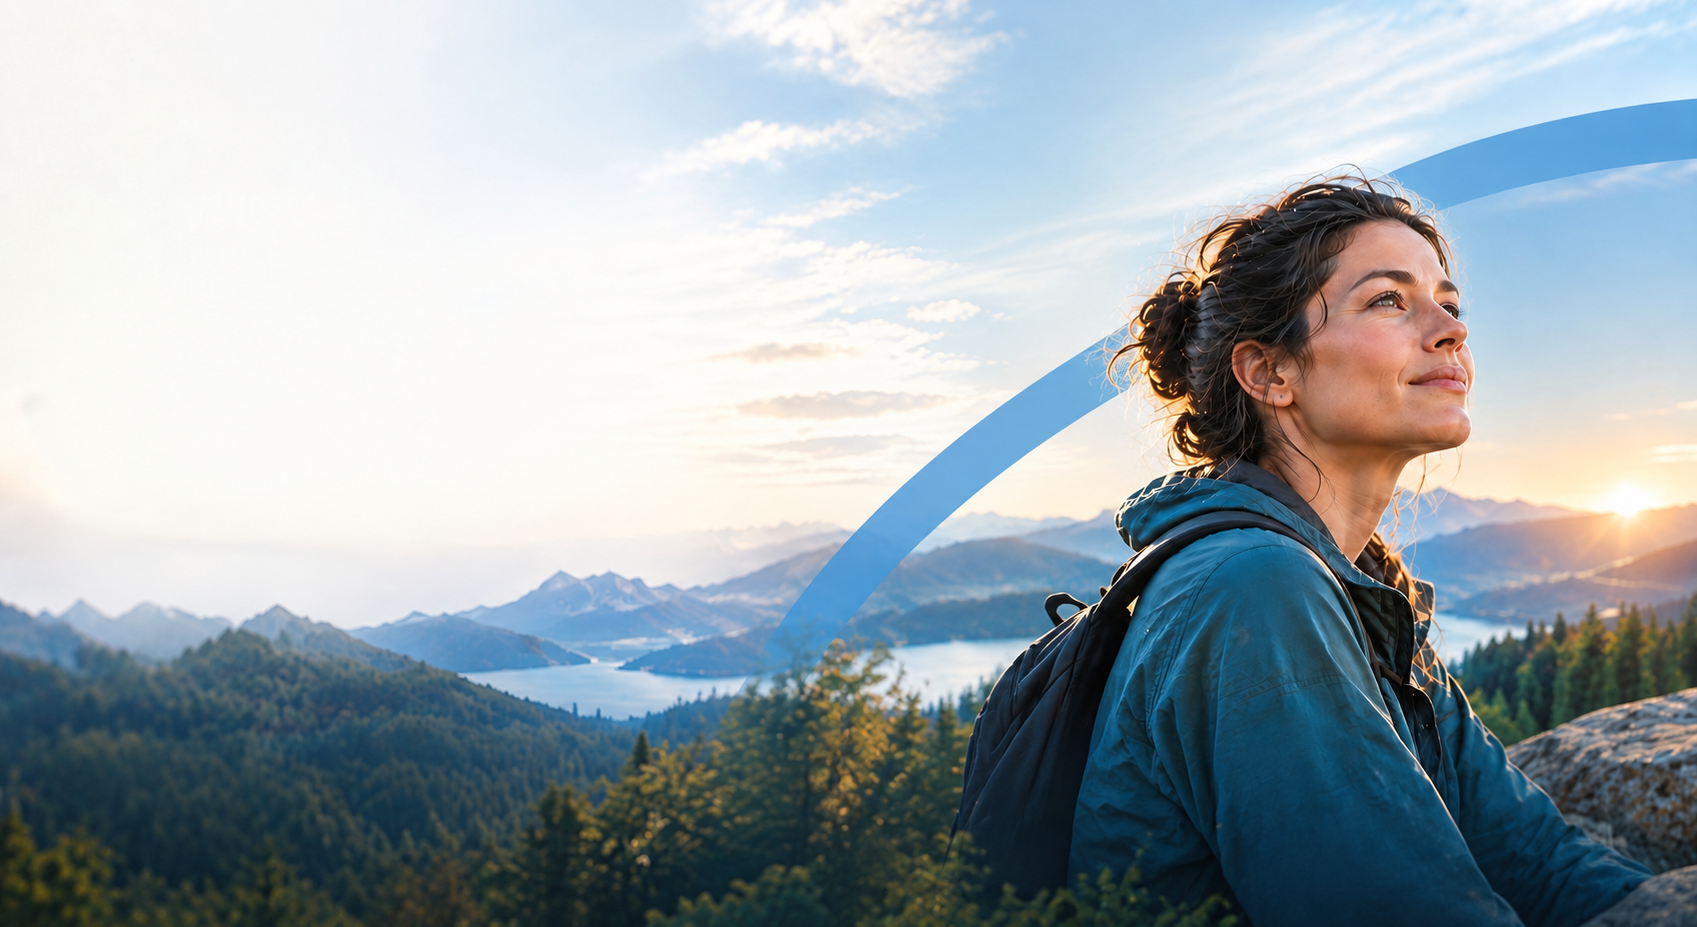
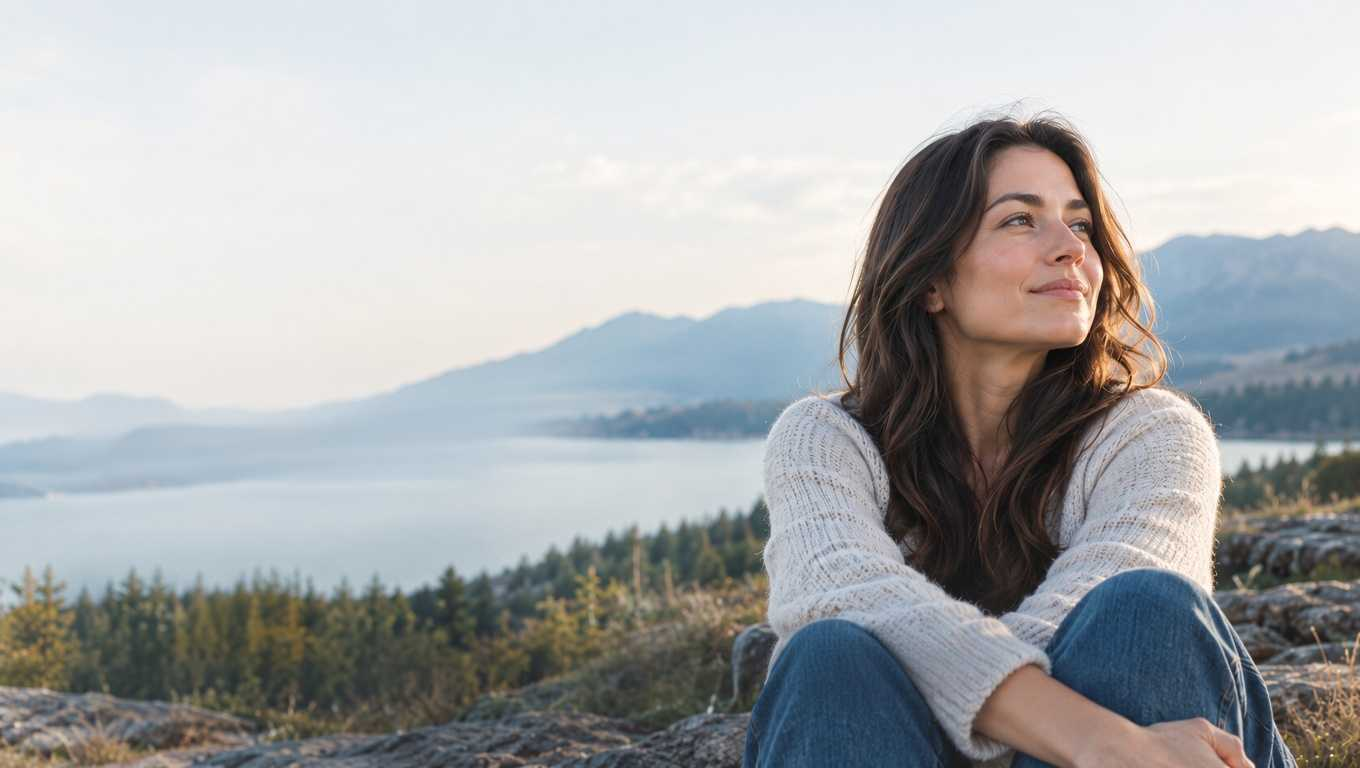
chore: update hero image

diff --git a/src/content/copy.ts b/src/content/copy.ts
@@ -29,7 +29,7 @@ export const copy = {
     headlineLine3: "Depression",
     headlineAccent: "& Anxiety",
     subheadline:
-      "Personalized TMS Therapy and SPRAVATO® across Oregon and Washington — FDA-cleared, insurance-friendly care when medications and therapy haven’t been enough.",
+      "Personalized TMS Therapy and SPRAVATO® across Oregon and Washington. FDA-cleared, insurance-friendly care when medications and therapy haven’t been enough.",
     primaryCta: ctas.bookConsult,
     secondaryCta: ctas.qualify,
     chips: [
@@ -65,7 +65,7 @@ export const copy = {
   whatIsTms: {
     eyebrow: "TMS Therapy",
     headline: "Drug-free relief for depression that hasn’t budged",
-    body: "Transcranial Magnetic Stimulation uses focused magnetic pulses to stimulate areas of the brain involved in mood. At Active Path, we offer BrainsWay and NeuroStar — FDA-cleared devices for adults who haven’t found enough relief with medication alone.",
+    body: "Transcranial Magnetic Stimulation uses focused magnetic pulses to stimulate areas of the brain involved in mood. At Active Path, we offer BrainsWay and NeuroStar, FDA-cleared devices for adults who haven’t found enough relief with medication alone.",
     points: [
       {
         title: "Non-invasive & medication-free",
@@ -77,7 +77,7 @@ export const copy = {
       },
       {
         title: "Outpatient sessions",
-        body: "Brief in-clinic visits that fit into your week — then you return to your day.",
+        body: "Brief in-clinic visits that fit into your week, then you return to your day.",
       },
     ],
     cta: ctas.bookConsult,
@@ -117,7 +117,7 @@ export const copy = {
   whyChoose: {
     eyebrow: "Why Active Path",
     headline: "Personalized care that never gives up",
-    body: "We specialize in advanced, evidence-based treatments for depression and related conditions — delivered with warmth across Oregon and Washington.",
+    body: "We specialize in advanced, evidence-based treatments for depression and related conditions, delivered with warmth across Oregon and Washington.",
     cards: [
       {
         title: "Care that never gives up",
@@ -129,15 +129,15 @@ export const copy = {
       },
       {
         title: "Insurance accepted",
-        body: "Covered by most major plans — Aetna, Cigna, Kaiser, Providence, Regence, and more.",
+        body: "Covered by most major plans, including Aetna, Cigna, Kaiser, Providence, Regence, and more.",
       },
       {
         title: "Oregon & Washington clinics",
-        body: "Six locations so care is nearby — Clackamas, Portland, Salem, Tigard, Kirkland, Vancouver.",
+        body: "Six locations so care is nearby: Clackamas, Portland, Salem, Tigard, Kirkland, and Vancouver.",
       },
       {
         title: "Personalized plans",
-        body: "Care built on real data and lived experience — not a one-size-fits-all protocol.",
+        body: "Care built on real data and lived experience, not a one-size-fits-all protocol.",
       },
       {
         title: "Licensed providers",
@@ -165,7 +165,7 @@ export const copy = {
     eyebrow: "Who Qualifies",
     headline: "Is advanced depression care right for you?",
     subheadline:
-      "TMS and SPRAVATO® may help if you’ve tried multiple treatments without enough relief — or you’re seeking a non-drug or advanced alternative.",
+      "TMS and SPRAVATO® may help if you’ve tried multiple treatments without enough relief, or you’re seeking a non-drug or advanced alternative.",
     items: [
       {
         title: "Treatment-Resistant Depression",
@@ -189,7 +189,7 @@ export const copy = {
   supportiveVideos: {
     eyebrow: "Learn more",
     headline: "TMS & SPRAVATO® videos",
-    body: "Hear how these treatments work — and real stories from people who found relief at Active Path.",
+    body: "Hear how these treatments work, and real stories from people who found relief at Active Path.",
     items: [
       {
         videoKey: "tmsWhatIs" as const,
@@ -225,7 +225,7 @@ export const copy = {
     items: [
       {
         q: "Do you accept insurance?",
-        a: "Yes — most major plans are accepted, including Aetna, Cigna, Providence, Kaiser, Regence, Premera, Moda, PacificSource, TRICARE, United, and Anthem. Our team can help verify benefits before you begin.",
+        a: "Yes. Most major plans are accepted, including Aetna, Cigna, Providence, Kaiser, Regence, Premera, Moda, PacificSource, TRICARE, United, and Anthem. Our team can help verify benefits before you begin.",
       },
       {
         q: "What is TMS therapy?",
@@ -252,7 +252,7 @@ export const copy = {
   bookConsult: {
     eyebrow: "Schedule",
     headline: ctas.bookConsult,
-    body: "Pick a time that works for you. We’ll answer questions about TMS and SPRAVATO®, review next steps, and help you understand your options — no pressure.",
+    body: "Pick a time that works for you. We’ll answer questions about TMS and SPRAVATO®, review next steps, and help you understand your options, with no pressure.",
     callPrompt: "Prefer to talk first?",
     qualifyLink: "Find out if you Qualify instead",
   },
@@ -281,7 +281,7 @@ export const copy = {
   footer: {
     bookCta: ctas.bookConsult,
     tagline:
-      "Personalized psychiatric care across Oregon and Washington — TMS Therapy, SPRAVATO®, and a team that never gives up.",
+      "Personalized psychiatric care across Oregon and Washington, with TMS Therapy, SPRAVATO®, and a team that never gives up.",
     disclaimer:
       "This website provides educational information only and is not medical advice. Active Path Mental Health does not provide emergency services. If you are in crisis, call 911 or dial 988 for the Suicide & Crisis Lifeline.",
     eligibility:

diff --git a/src/components/WhyChoose.tsx b/src/components/WhyChoose.tsx
@@ -23,7 +23,7 @@ export function WhyChoose() {
               <div className="relative aspect-[4/3] w-full sm:aspect-[16/10] lg:aspect-[3/4]">
                 <Image
                   src={site.images.whyChoose}
-                  alt="Person reflecting at home — seeking new options for depression care"
+                  alt="Person reflecting at home, seeking new options for depression care"
                   fill
                   sizes="(max-width: 1023px) 100vw, 38vw"
                   className="why-choose-visual-img object-cover object-center"

diff --git a/src/components/Spravato.tsx b/src/components/Spravato.tsx
@@ -31,7 +31,7 @@ export function Spravato() {
                   </span>
                   <h3 className="mt-5 !text-[#f5fbfc]">SPRAVATO® in clinic</h3>
                   <p className="mt-3 text-sm leading-relaxed text-bt-lavender">
-                    Supervised nasal spray for treatment-resistant depression — often
+                    Supervised nasal spray for treatment-resistant depression, often
                     covered by insurance when clinically appropriate.
                   </p>
                 </div>

diff --git a/src/content/site.ts b/src/content/site.ts
@@ -56,7 +56,7 @@ export const site = {
     {
       name: "Ryan Dozler",
       role: "PMHNP, BSN, RN",
-      bio: "Specializes in TMS, SPRAVATO®, and medication management at NW Portland and Salem — offering interventional options when wellness takes many forms.",
+      bio: "Specializes in TMS, SPRAVATO®, and medication management at NW Portland and Salem, offering interventional options when wellness takes many forms.",
       image: "/images/providers/ryan-dozler.png",
     },
     {

diff --git a/README.md b/README.md
@@ -1,6 +1,6 @@
 # Active Path Mental Health Landing Page
 
-Marketing landing page for Active Path Mental Health — TMS Therapy and SPRAVATO® across Oregon and Washington.
+Marketing landing page for Active Path Mental Health: TMS Therapy and SPRAVATO® across Oregon and Washington.
 
 Built on the TMS of Austin / Breakthrough TMS pattern with Active Path brand colors (`#3F90C9` / `#1D2C4C`) and assets from [activepath.com](https://activepath.com).
 
